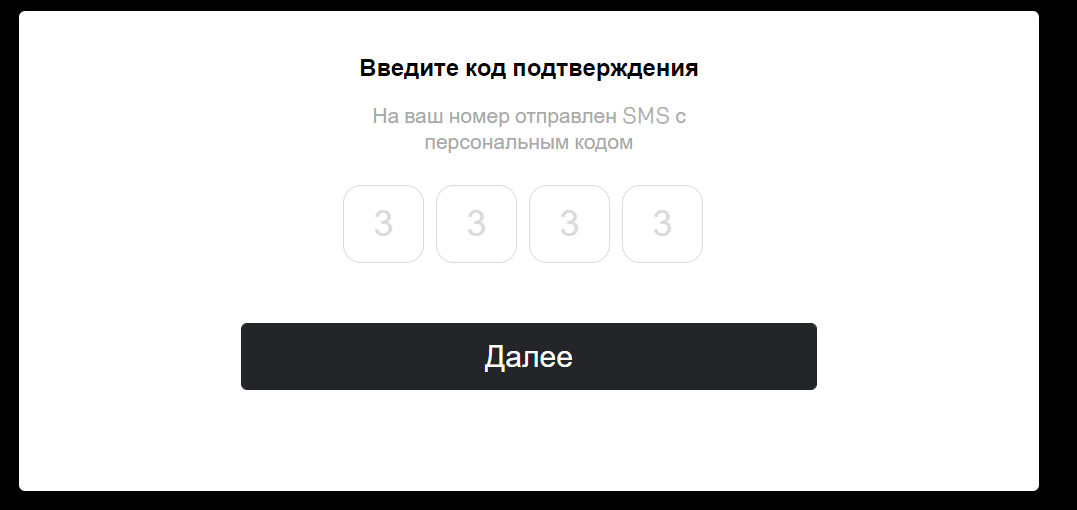
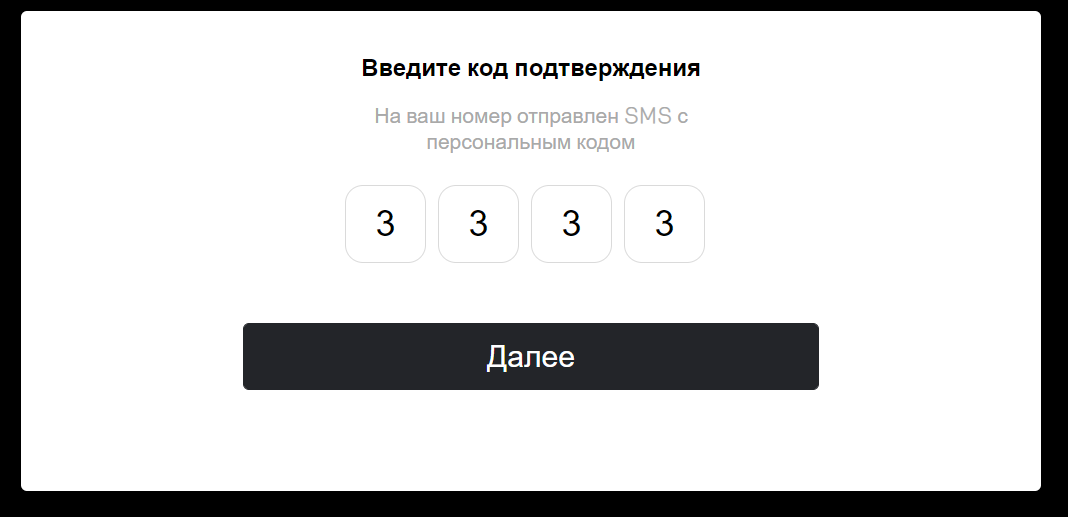
feat: final confirmation part

diff --git a/css/confirmation.css b/css/confirmation.css
@@ -59,6 +59,6 @@ button{
 }
 
 input::-webkit-input-placeholder {
-    color: #DADADA;
+    color: black;
 }
 
